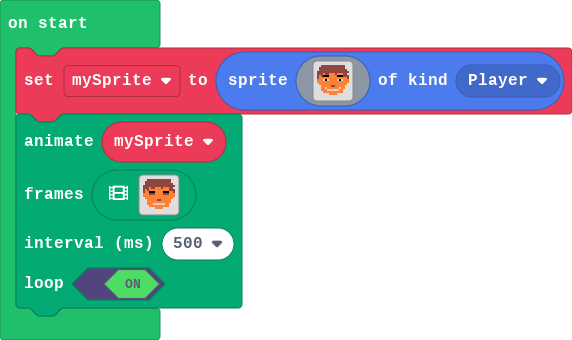
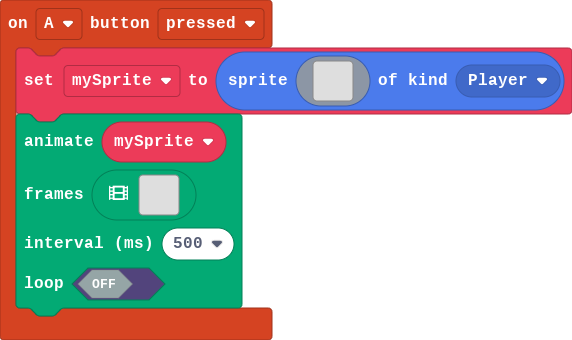
Update main.blocks, main.ts

Changed region(s): [[0.0, 0.0, 0.4755, 1.0], [0.535, 0.1765, 0.6241, 0.2941], [0.2378, 0.5294, 0.3269, 0.6176]]

diff --git a/main.ts b/main.ts
@@ -1,7 +1,44 @@
-let mySprite = sprites.create(assets.image`guy`, SpriteKind.Player)
-animation.runImageAnimation(
-mySprite,
-assets.animation`guy1`,
-500,
-true
-)
+let mySprite: Sprite = null
+controller.A.onEvent(ControllerButtonEvent.Pressed, function () {
+    mySprite = sprites.create(img`
+        . . . . . . . . . . . . . . . . 
+        . . . . . . . . . . . . . . . . 
+        . . . . . . . . . . . . . . . . 
+        . . . . . . . . . . . . . . . . 
+        . . . . . . . . . . . . . . . . 
+        . . . . . . . . . . . . . . . . 
+        . . . . . . . . . . . . . . . . 
+        . . . . . . . . . . . . . . . . 
+        . . . . . . . . . . . . . . . . 
+        . . . . . . . . . . . . . . . . 
+        . . . . . . . . . . . . . . . . 
+        . . . . . . . . . . . . . . . . 
+        . . . . . . . . . . . . . . . . 
+        . . . . . . . . . . . . . . . . 
+        . . . . . . . . . . . . . . . . 
+        . . . . . . . . . . . . . . . . 
+        `, SpriteKind.Player)
+    animation.runImageAnimation(
+    mySprite,
+    [img`
+        . . . . . . . . . . . . . . . . 
+        . . . . . . . . . . . . . . . . 
+        . . . . . . . . . . . . . . . . 
+        . . . . . . . . . . . . . . . . 
+        . . . . . . . . . . . . . . . . 
+        . . . . . . . . . . . . . . . . 
+        . . . . . . . . . . . . . . . . 
+        . . . . . . . . . . . . . . . . 
+        . . . . . . . . . . . . . . . . 
+        . . . . . . . . . . . . . . . . 
+        . . . . . . . . . . . . . . . . 
+        . . . . . . . . . . . . . . . . 
+        . . . . . . . . . . . . . . . . 
+        . . . . . . . . . . . . . . . . 
+        . . . . . . . . . . . . . . . . 
+        . . . . . . . . . . . . . . . . 
+        `],
+    500,
+    false
+    )
+})
